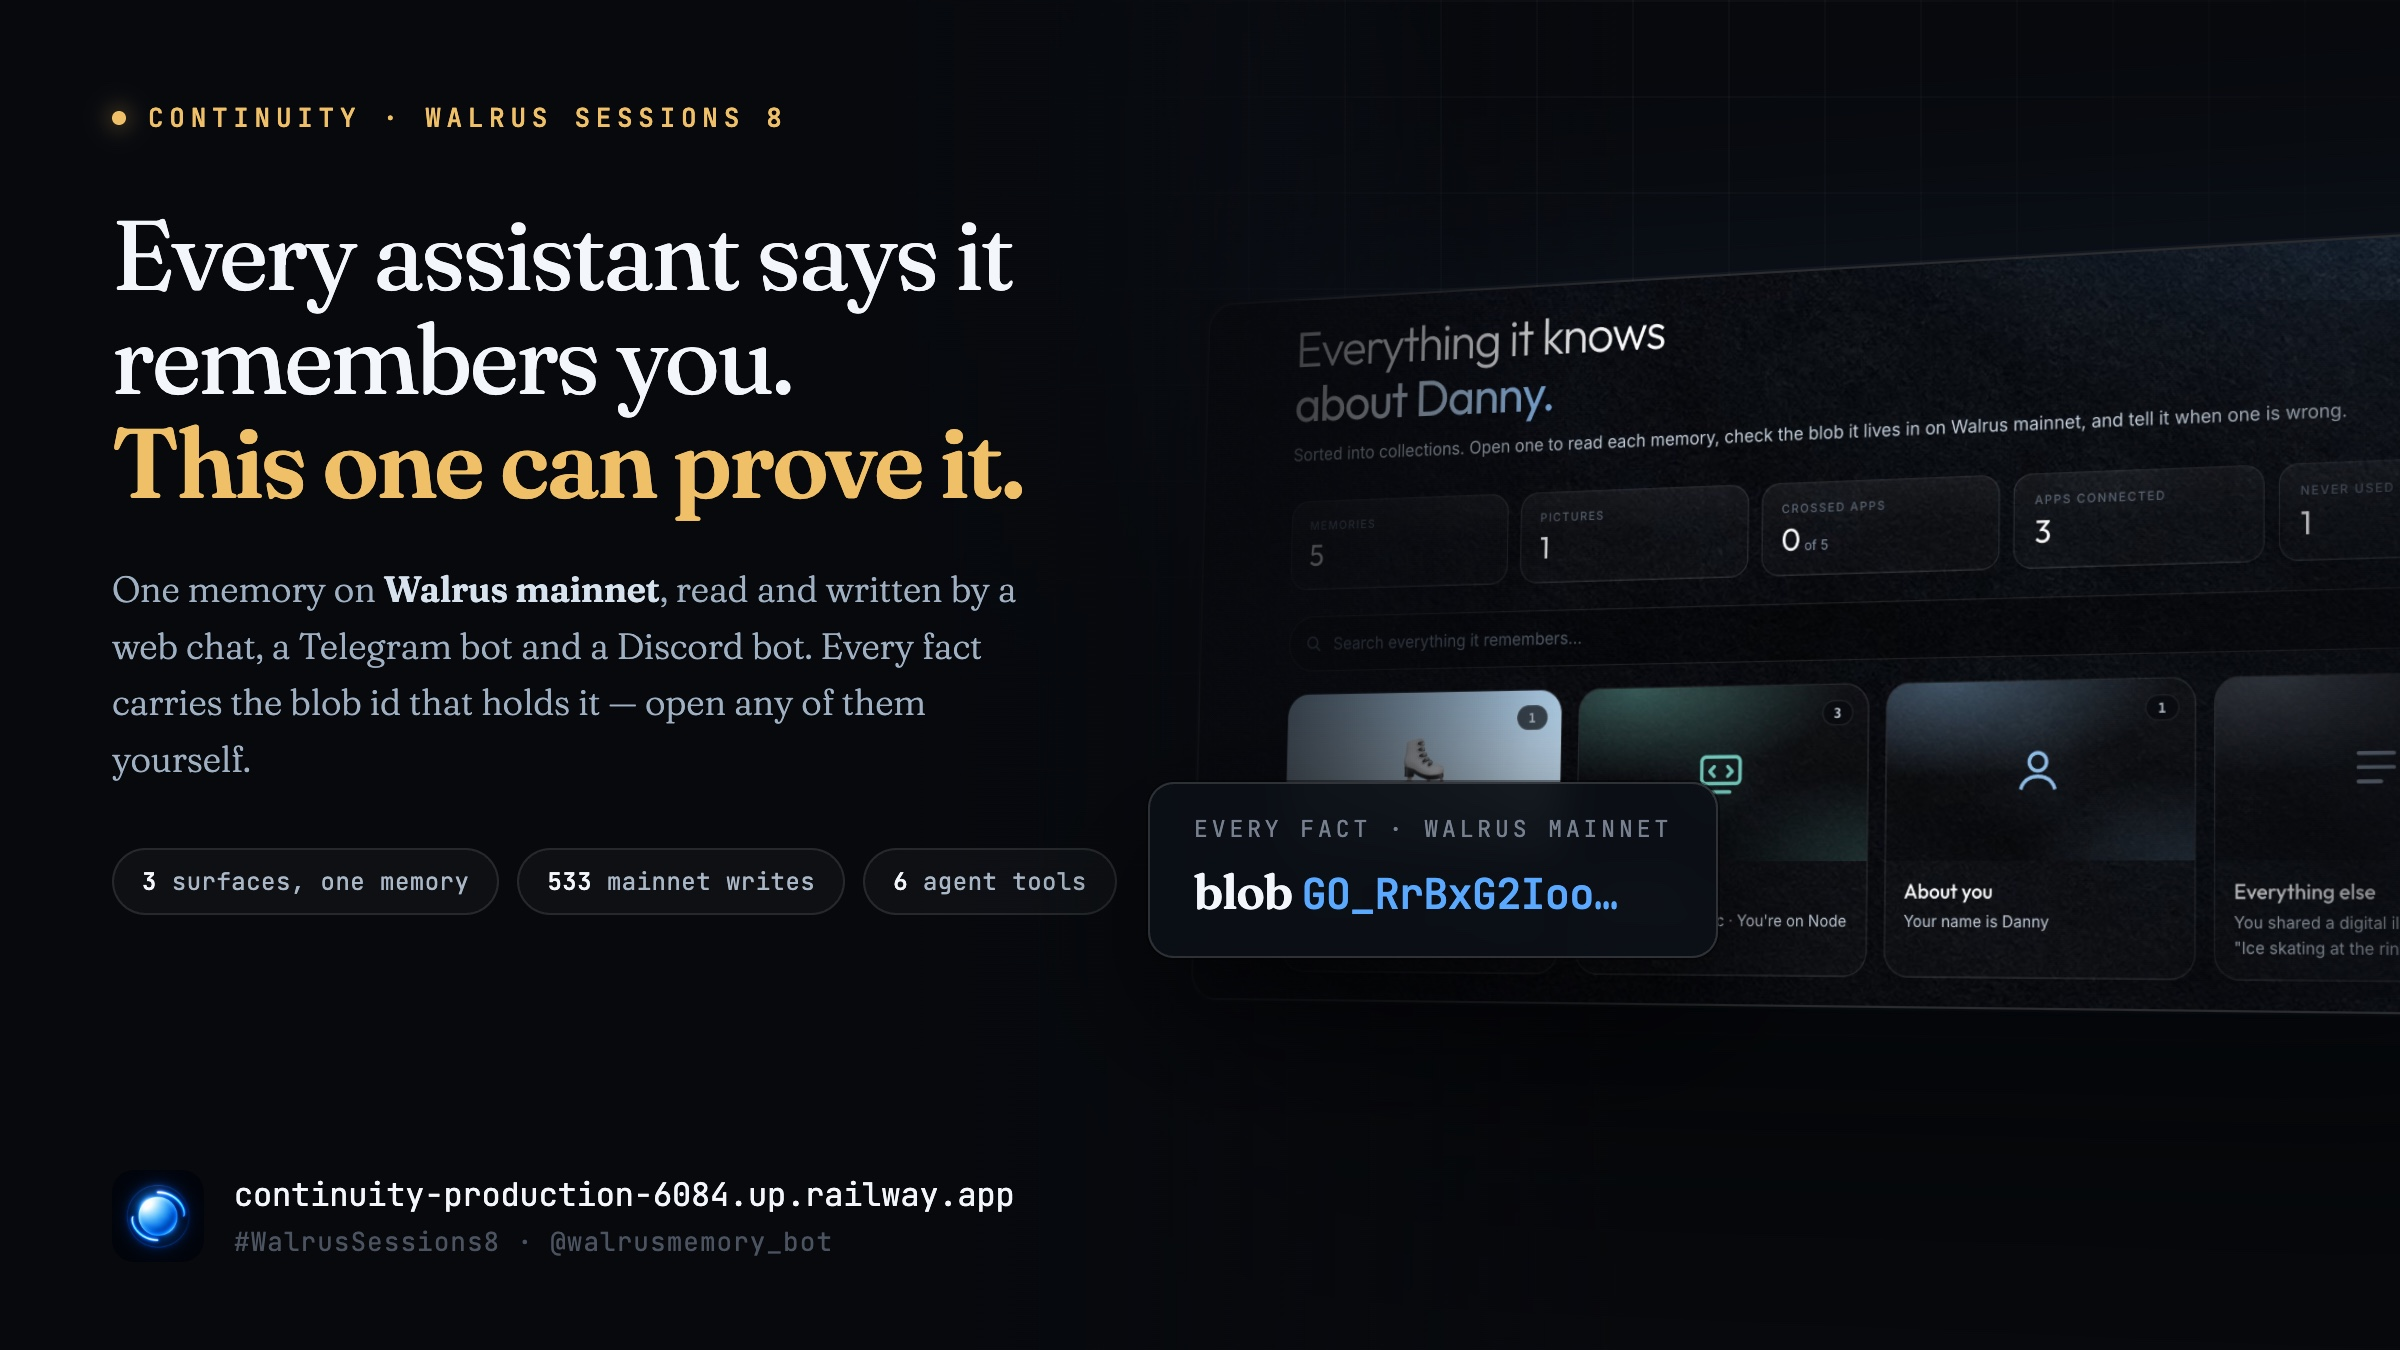
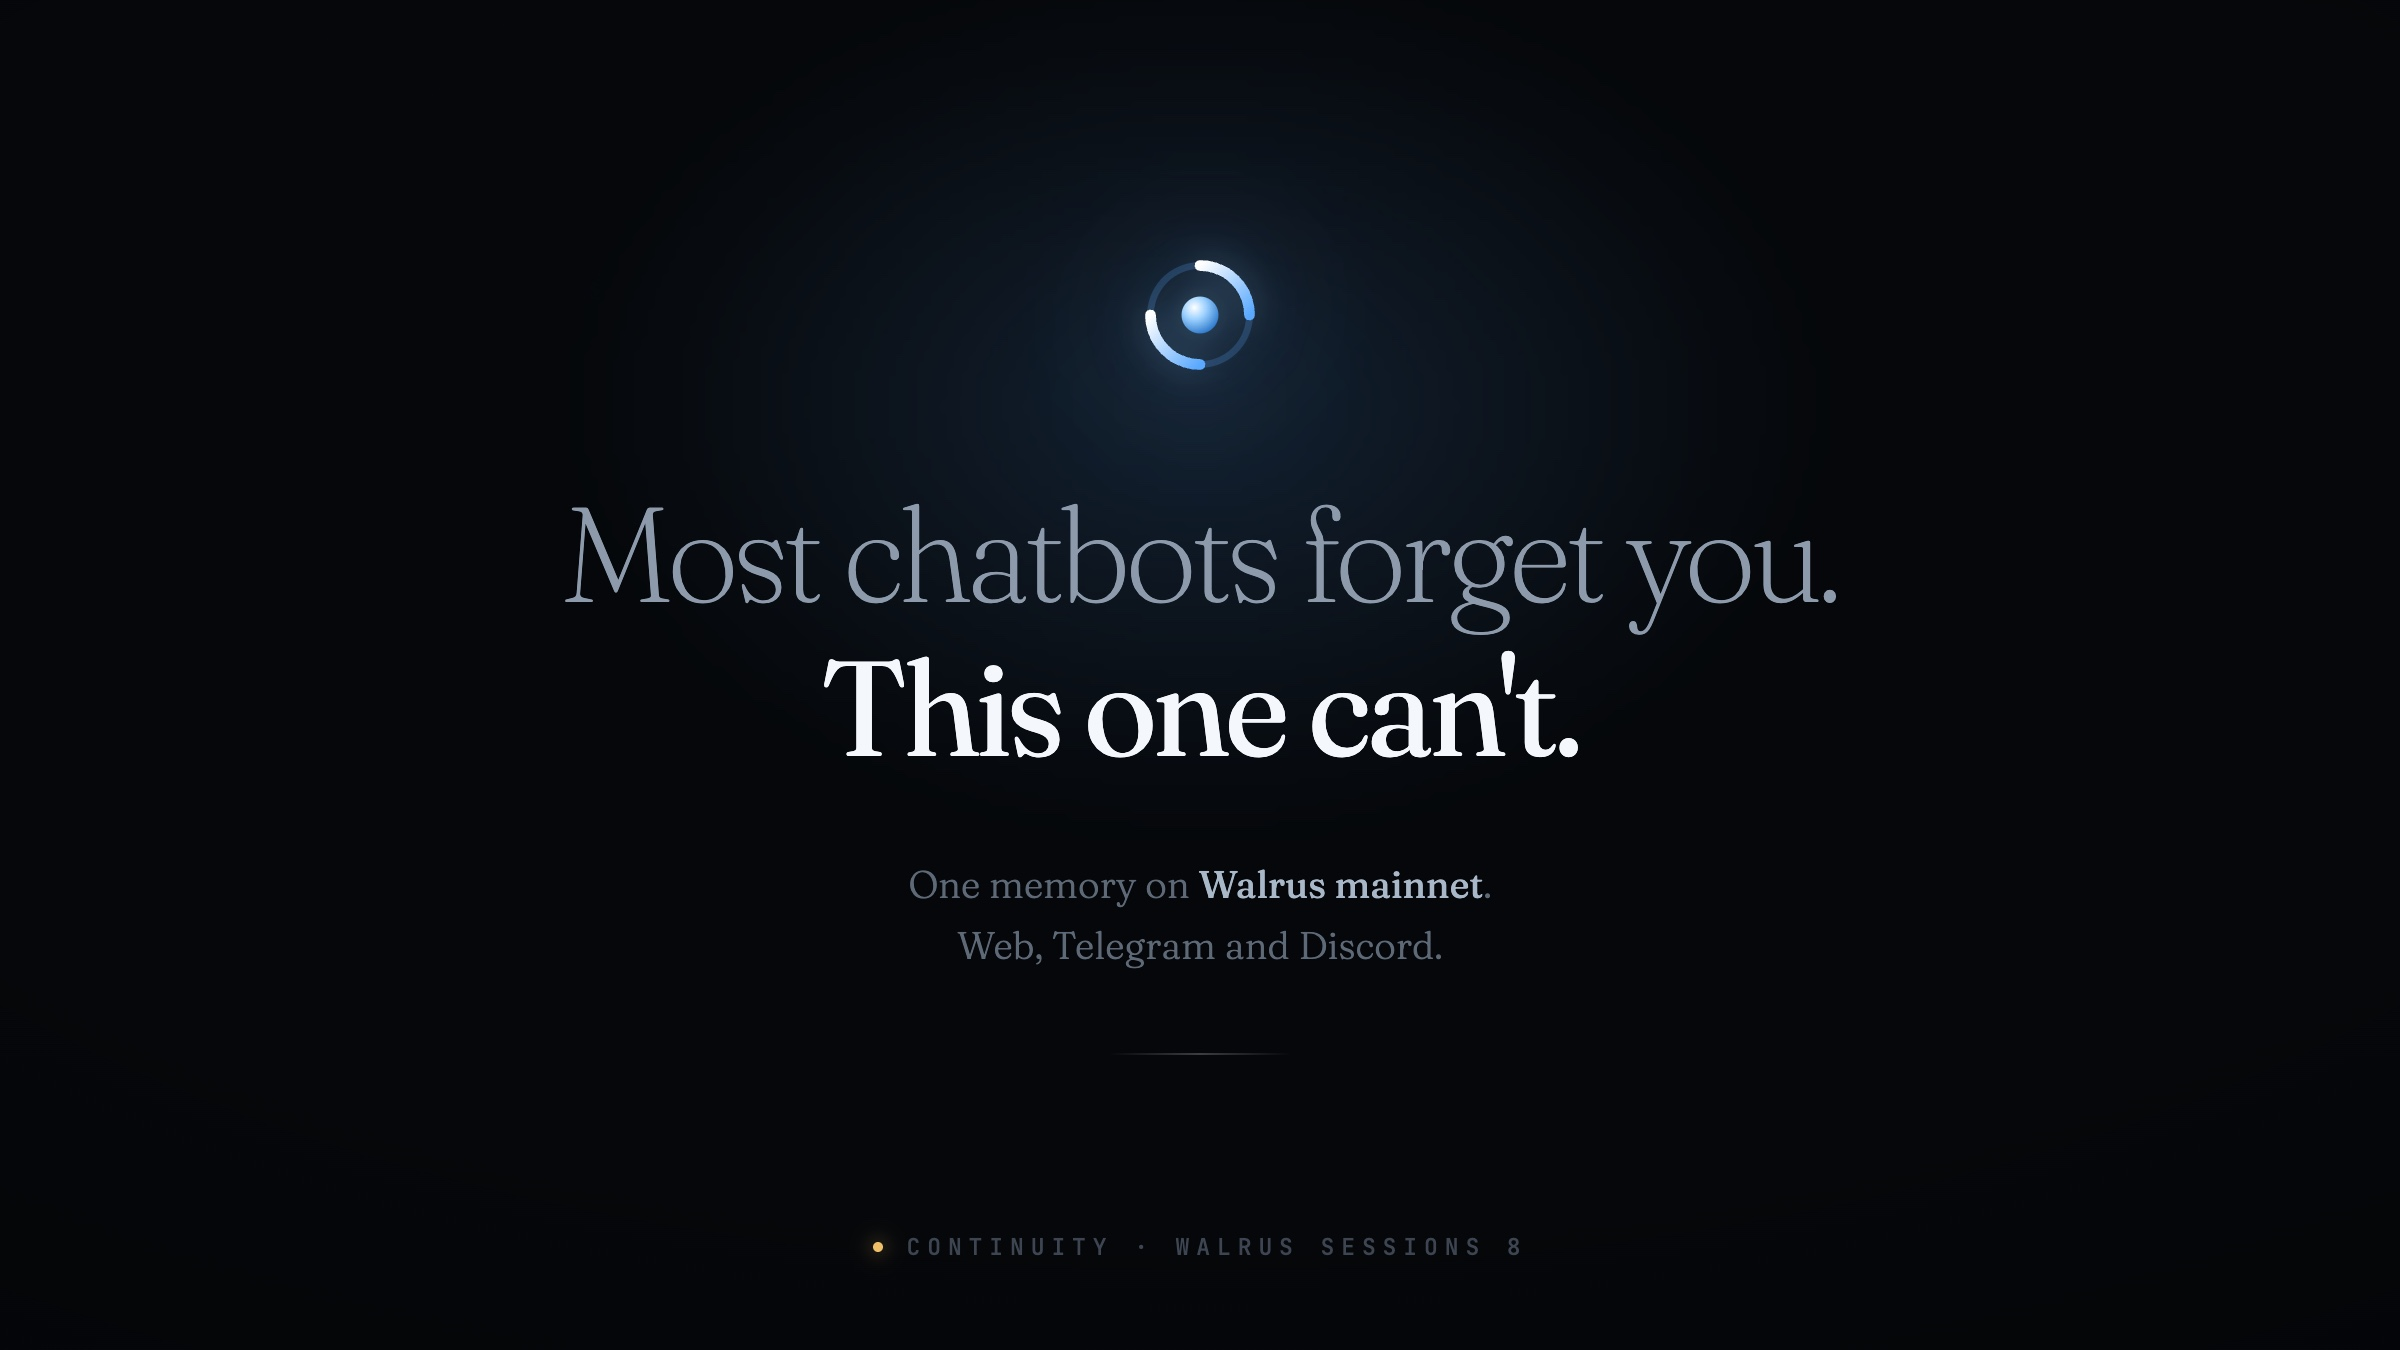
The cover is the film's title card, done properly
Danny's note on the Argus-style card was "this isnt what i want", with the
demo video's own title frame attached. He picked the cinematic direction:
centered type on black, the mark, nothing else. No screenshot, no chips, no
URL.

So the cover and the film now open on the same words — "Most chatbots forget
you. This one can't." — which is worth more than two separate good images.

Built, not generated: HTML rendered headless at 2400x1350, so the serif is
exact. press/cover-card.html is the source and press/cover-shot.mjs renders it.

The craft is in what is barely visible. A single blue light behind the mark, a
vignette so the frame reads as a lit space rather than a flat fill, and film
grain — without the grain a near-black gradient bands visibly at the size
people actually view this, and the whole thing looks cheap.

The mark is the inline SVG, not avatar.png. The PNG carries its own black
square, which against a background that is not quite the same black reads as a
visible box around the logo.

diff --git a/press/cover-card.html b/press/cover-card.html
@@ -1,15 +1,14 @@
 <!doctype html>
 <meta charset="utf8">
-<title>Continuity promo card</title>
+<title>Continuity title card</title>
 <link rel="preconnect" href="https://fonts.googleapis.com">
 <link rel="preconnect" href="https://fonts.gstatic.com" crossorigin>
-<link rel="stylesheet" href="https://fonts.googleapis.com/css2?family=Fraunces:opsz,wght@9..144,300;9..144,400;9..144,600;9..144,700&family=JetBrains+Mono:wght@400;500&display=swap">
+<link rel="stylesheet" href="https://fonts.googleapis.com/css2?family=Fraunces:opsz,wght@9..144,200;9..144,300;9..144,400;9..144,600&family=JetBrains+Mono:wght@400;500&display=swap">
 <style>
   :root{
-    --void:#07090D; --paper:#0D1218;
-    --ink:#F3F7FB; --body:#9FB0C2; --dim:#76808F; --faint:#4A535F;
-    --edge:rgba(255,255,255,.10);
-    --live:#5AA9FF; --wal:#7FE3D4; --amber:#F0C068;
+    --void:#05070A;
+    --ink:#F4F8FC; --body:#8C9AAB; --dim:#5E6977; --faint:#3C4551;
+    --live:#5AA9FF; --amber:#F0C068;
     --display:'Fraunces',Georgia,serif;
     --mono:'JetBrains Mono',ui-monospace,Menlo,monospace;
   }
@@ -18,138 +17,89 @@
 
   .card{
     position:relative; width:1200px; height:675px; overflow:hidden;
-    background:var(--void); color:var(--body);
-    font-family:var(--display); isolation:isolate;
+    background:var(--void); isolation:isolate;
+    display:flex; flex-direction:column; align-items:center; justify-content:center; padding-bottom:26px;
   }
 
-  /* a faint engineering grid, the way graph paper sits under a drawing */
-  .card::before{
-    content:""; position:absolute; inset:0; z-index:0;
-    background-image:
-      linear-gradient(rgba(255,255,255,.028) 1px, transparent 1px),
-      linear-gradient(90deg, rgba(255,255,255,.028) 1px, transparent 1px);
-    background-size:48px 48px;
-    mask-image:radial-gradient(130% 110% at 10% 0%, #000 0%, #000 42%, transparent 78%);
-  }
+  /* One soft light behind the mark, and nothing else competing with it. */
+  .glow{position:absolute; z-index:0; left:50%; top:30%; transform:translate(-50%,-50%);
+    width:900px; height:620px;
+    background:radial-gradient(closest-side,
+      rgba(90,169,255,.16), rgba(90,169,255,.055) 44%, transparent 70%);
+    filter:blur(14px)}
 
-  /* the light source, top left, same cool blue as the mark */
-  .card::after{
-    content:""; position:absolute; z-index:0;
-    left:-220px; top:-300px; width:1100px; height:760px;
-    background:radial-gradient(closest-side, rgba(90,169,255,.19), rgba(90,169,255,.05) 55%, transparent 72%);
-    filter:blur(10px);
-  }
+  /* A vignette, so the frame reads as a lit space rather than a flat fill. */
+  .vig{position:absolute; z-index:1; inset:0; pointer-events:none;
+    background:radial-gradient(135% 115% at 50% 38%, transparent 42%, rgba(0,0,0,.62) 100%)}
 
-  /* A scrim that guarantees the words never sit on the screenshot, whatever
-     the screenshot does. The first attempt let the headline run straight over
-     the product and both became unreadable. */
-  .scrim{position:absolute; inset:0; z-index:2; pointer-events:none;
-    background:linear-gradient(90deg, var(--void) 0%, var(--void) 36%,
-      rgba(7,9,13,.92) 46%, rgba(7,9,13,.55) 56%, transparent 68%)}
+  /* Grain. Without it a near-black gradient bands visibly on most screens,
+     and the card looks cheap at exactly the size people will view it. */
+  .grain{position:absolute; z-index:2; inset:0; pointer-events:none; opacity:.42;
+    mix-blend-mode:overlay}
 
-  .inner{position:relative; z-index:3; height:100%; width:612px;
-    padding:50px 0 44px 56px; display:flex; flex-direction:column}
+  .stack{position:relative; z-index:3; text-align:center; padding:0 70px;
+    display:flex; flex-direction:column; align-items:center}
 
-  /* ── kicker ── */
-  .kicker{display:flex; align-items:center; gap:11px;
-    font-family:var(--mono); font-size:13px; font-weight:500; letter-spacing:.22em;
-    text-transform:uppercase; color:var(--amber); margin-bottom:34px}
-  .kicker i{width:7px; height:7px; border-radius:50%; background:var(--amber);
-    box-shadow:0 0 12px rgba(240,192,104,.85); flex:none}
+  .mark{width:72px; height:72px; margin-bottom:46px; display:block;
+    filter:drop-shadow(0 0 30px rgba(90,169,255,.5)) drop-shadow(0 0 8px rgba(155,208,255,.35))}
 
-  /* ── headline ── */
-  h1{font-family:var(--display); font-weight:400;
-    font-variation-settings:'SOFT' 0,'WONK' 1;
-    font-size:49px; line-height:1.06; letter-spacing:-.025em; color:var(--ink)}
-  h1 .hit{color:var(--amber); font-weight:600; display:block}
+  h1{font-family:var(--display); font-variation-settings:'SOFT' 0,'WONK' 1;
+    font-size:67px; line-height:1.12; letter-spacing:-.03em; max-width:16em}
+  h1 .a{display:block; font-weight:200; color:var(--body)}
+  h1 .b{display:block; font-weight:400; color:var(--ink); margin-top:2px}
 
-  .sub{margin-top:23px; max-width:29rem;
-    font-family:var(--display); font-weight:300; font-size:18px; line-height:1.58;
-    color:var(--body); letter-spacing:-.003em}
-  .sub b{color:#D6E2EE; font-weight:600}
+  .sub{margin-top:36px; font-family:var(--display); font-weight:300;
+    font-size:19px; line-height:1.6; color:var(--dim); letter-spacing:.004em}
+  .sub b{color:#A9B8C8; font-weight:400}
 
-  /* ── chips ── */
-  .chips{display:flex; gap:9px; margin-top:30px; flex-wrap:wrap; max-width:560px}
-  .chip{font-family:var(--mono); font-size:12px; letter-spacing:.02em; color:#A9B7C6;
-    border:1px solid var(--edge); border-radius:999px; padding:8px 14px; white-space:nowrap;
-    background:rgba(255,255,255,.028)}
-  .chip b{color:var(--ink); font-weight:500}
+  /* A hairline, the width of the type above it, instead of a box or a button. */
+  .rule{width:92px; height:1px; margin-top:38px;
+    background:linear-gradient(90deg, transparent, rgba(255,255,255,.22), transparent)}
 
-  /* ── the product, set back in space ── */
-  .stage{position:absolute; z-index:1; right:-120px; top:150px;
-    width:720px; perspective:1800px}
-  .screen{
-    transform:rotateY(-19deg) rotateX(5deg) rotateZ(-1.2deg);
-    transform-origin:left center;
-    border-radius:14px; overflow:hidden;
-    border:1px solid rgba(255,255,255,.14);
-    box-shadow:
-      0 60px 120px rgba(0,0,0,.75),
-      0 0 0 1px rgba(255,255,255,.035),
-      0 0 90px rgba(90,169,255,.10);
-  }
-  .screen img{display:block; width:100%; height:auto}
-  /* the right edge falls away into the background rather than stopping dead */
-  .stage::after{content:""; position:absolute; inset:0;
-    background:linear-gradient(100deg, rgba(7,9,13,.55) 0%, transparent 26%,
-      transparent 60%, rgba(7,9,13,.6) 88%, var(--void) 99%);
-    pointer-events:none}
-
-  /* ── the floating proof card ──
-     A direct child of the card, not of .stage. Inside .stage it inherited a
-     stacking context from that element's own z-index and could not paint
-     above the scrim, so the one piece of evidence on the card came out
-     dimmed to the point of being unreadable. */
-  .callout{position:absolute; z-index:5; left:574px; bottom:196px;
-    background:rgba(11,15,21,.93);
-    border:1px solid rgba(255,255,255,.14);
-    border-radius:13px; padding:15px 22px 17px;
-    box-shadow:0 30px 70px rgba(0,0,0,.72), 0 0 0 1px rgba(0,0,0,.4);
-    backdrop-filter:blur(9px)}
-  .callout .lbl{font-family:var(--mono); font-size:11.5px; letter-spacing:.17em;
-    text-transform:uppercase; color:var(--dim); margin-bottom:9px}
-  .callout .val{font-family:var(--display); font-weight:600; font-size:24px;
-    letter-spacing:-.018em; color:var(--ink); white-space:nowrap}
-  .callout .val span{font-family:var(--mono); font-weight:500; font-size:21px; color:var(--live)}
-
-  /* ── footer ── */
-  .foot{margin-top:auto; display:flex; align-items:center; gap:15px}
-  .foot img{width:46px; height:46px; border-radius:11px; flex:none}
-  .foot .url{font-family:var(--mono); font-size:16px; color:var(--ink); letter-spacing:-.005em}
-  .foot .tag{font-family:var(--mono); font-size:13px; color:var(--faint); margin-top:4px; letter-spacing:.04em}
+  .foot{position:absolute; z-index:3; bottom:44px; left:0; right:0;
+    display:flex; align-items:center; justify-content:center; gap:12px;
+    font-family:var(--mono); font-size:11.5px; font-weight:500; letter-spacing:.3em;
+    text-transform:uppercase; color:var(--faint)}
+  .foot i{width:5px; height:5px; border-radius:50%; background:var(--amber);
+    box-shadow:0 0 10px rgba(240,192,104,.8); flex:none}
 </style>
 
 <div class="card">
-  <div class="stage">
-    <div class="screen"><img src="img/dashboard.jpg" alt=""></div>
+  <div class="glow"></div>
+
+  <div class="stack">
+    <svg class="mark" viewBox="0 0 32 32" xmlns="http://www.w3.org/2000/svg" aria-label="Continuity">
+        <defs>
+          <radialGradient id="ct-core" cx="35%" cy="30%" r="74%">
+            <stop offset="0" stop-color="#FFFFFF"/>
+            <stop offset="44%" stop-color="#9BD0FF"/>
+            <stop offset="100%" stop-color="#2E7ACB"/>
+          </radialGradient>
+          <linearGradient id="ct-arc" x1="0" y1="0" x2="1" y2="1">
+            <stop offset="0" stop-color="#FFFFFF"/>
+            <stop offset="100%" stop-color="#5AA9FF"/>
+          </linearGradient>
+        </defs>
+        <circle cx="16" cy="16" r="11" fill="none" stroke="#5AA9FF" stroke-width="1.5" opacity=".22"/>
+        <path d="M16 5a11 11 0 0 1 11 11" fill="none" stroke="url(#ct-arc)" stroke-width="2.4" stroke-linecap="round"/>
+        <path d="M16 27A11 11 0 0 1 5 16" fill="none" stroke="url(#ct-arc)" stroke-width="2.4" stroke-linecap="round"/>
+        <circle cx="16" cy="16" r="4.1" fill="url(#ct-core)"/>
+      </svg>
+    <h1>
+      <span class="a">Most chatbots forget you.</span>
+      <span class="b">This one can't.</span>
+    </h1>
+    <p class="sub">One memory on <b>Walrus mainnet</b>.<br>Web, Telegram and Discord.</p>
+    <div class="rule"></div>
   </div>
 
-  <div class="scrim"></div>
+  <div class="vig"></div>
 
-  <div class="callout">
-    <div class="lbl">Every fact · Walrus mainnet</div>
-    <div class="val">blob <span>GO_RrBxG2Ioo…</span></div>
-  </div>
+  <svg class="grain" xmlns="http://www.w3.org/2000/svg">
+    <filter id="n"><feTurbulence type="fractalNoise" baseFrequency="0.82" numOctaves="3" stitchTiles="stitch"/>
+      <feColorMatrix type="saturate" values="0"/></filter>
+    <rect width="100%" height="100%" filter="url(#n)" opacity="0.5"/>
+  </svg>
 
-  <div class="inner">
-    <div class="kicker"><i></i>Continuity · Walrus Sessions 8</div>
-
-    <h1>Every assistant says it remembers you.<span class="hit">This one can prove it.</span></h1>
-
-    <p class="sub">One memory on <b>Walrus mainnet</b>, read and written by a web chat, a Telegram bot and a Discord bot. Every fact carries the blob id that holds it — open any of them yourself.</p>
-
-    <div class="chips">
-      <div class="chip"><b>3</b> surfaces, one memory</div>
-      <div class="chip"><b>533</b> mainnet writes</div>
-      <div class="chip"><b>6</b> agent tools</div>
-    </div>
-
-    <div class="foot">
-      <img src="img/orb.png" alt="">
-      <div>
-        <div class="url">continuity-production-6084.up.railway.app</div>
-        <div class="tag">#WalrusSessions8 · @walrusmemory_bot</div>
-      </div>
-    </div>
-  </div>
+  <div class="foot"><i></i>Continuity · Walrus Sessions 8</div>
 </div>

diff --git a/press/medium-quietly-replaced.md b/press/medium-quietly-replaced.md
@@ -4,7 +4,7 @@
 
 *Walrus Sessions 8 · Chatbots that remember* · Danny · Continuity · Kimi K2.5 · never GPT or Claude · 11 min
 
-![Continuity: Every assistant says it remembers you. This one can prove it. One memory on Walrus mainnet across a web chat, Telegram and Discord, with the memory dashboard shown and a blob id on Walrus mainnet.](continuity-cover.jpg)
+![Continuity title card on black: the orb mark above the words Most chatbots forget you. This one can't. One memory on Walrus mainnet. Web, Telegram and Discord.](continuity-cover.jpg)
 
 ---
 

diff --git a/press/inkray-not-a-support-bot.md b/press/inkray-not-a-support-bot.md
@@ -4,7 +4,7 @@
 
 *Walrus Sessions 8 · Chatbots that remember* · Danny · Continuity · Kimi K2.5 · never GPT or Claude · 5 min
 
-![Continuity: Every assistant says it remembers you. This one can prove it. One memory on Walrus mainnet across a web chat, Telegram and Discord, with the memory dashboard shown and a blob id on Walrus mainnet.](continuity-cover.jpg)
+![Continuity title card on black: the orb mark above the words Most chatbots forget you. This one can't. One memory on Walrus mainnet. Web, Telegram and Discord.](continuity-cover.jpg)
 
 ---
 
